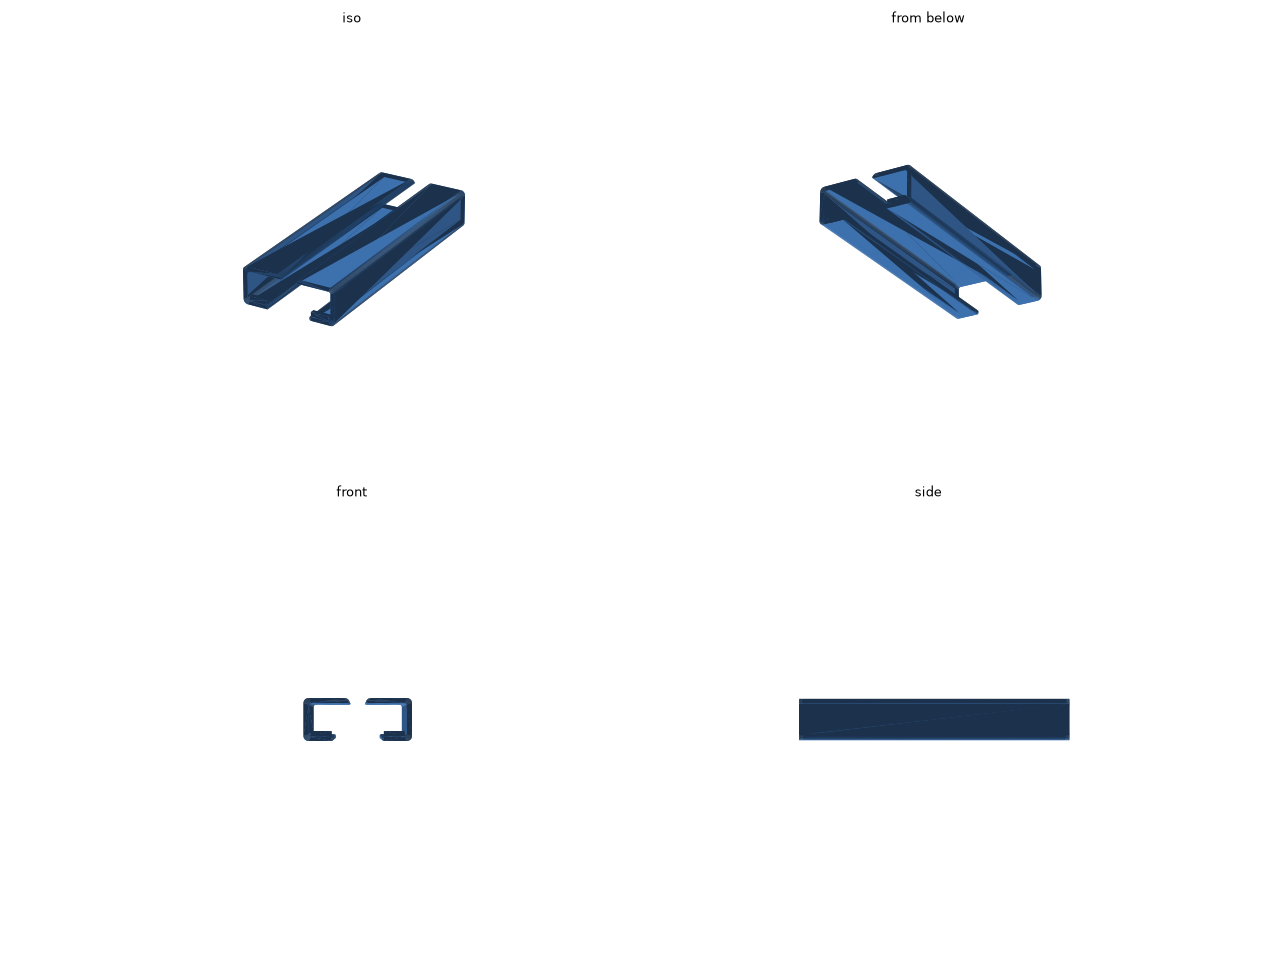
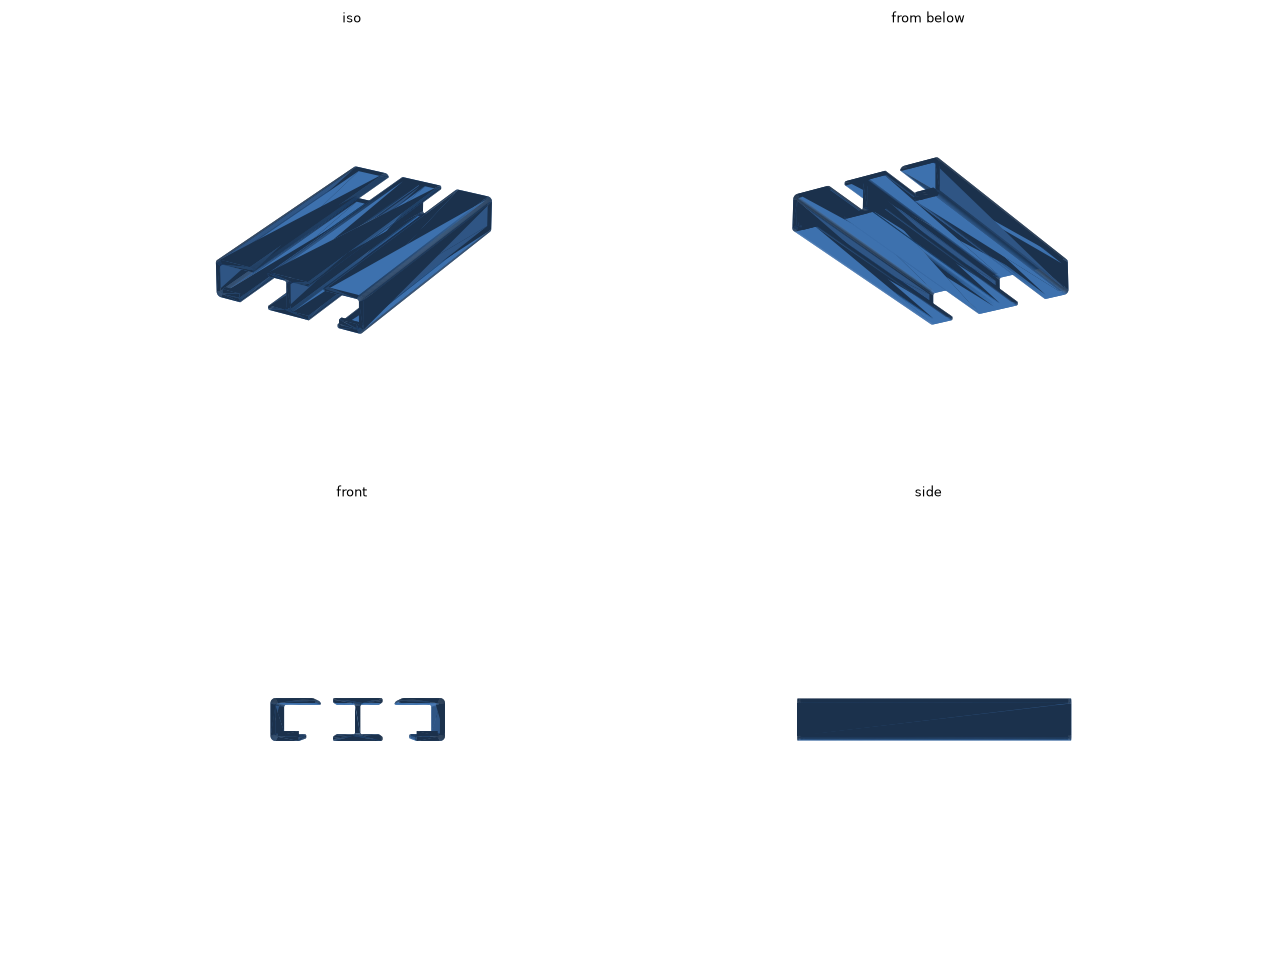
feat: iPad のレールに真ん中の支えを追加する
左右のレールだけだと iPad の真ん中が浮くので、断面が I の字の支えを
足した。下の板の上面は左右の棚と同じ高さにそろえてある。

diff --git a/ipad-pro-11-rails/rails.py b/ipad-pro-11-rails/rails.py
@@ -1,11 +1,12 @@
 """iPad Pro 11 インチ (M4) を机の下にしまうレール (Bambu Lab A1 mini 向け)
 
 iPad の幅 (249.7 mm) は A1 mini の造形範囲 (180 mm) に収まらないので、左右 2 本のレールに分けている。
-レールは前後方向に伸び、iPad の左右のふちを下の棚で受ける。上の板を両面テープで天板の裏に貼る。
+レールは前後方向に伸び、iPad の左右のふちを下の棚で受ける。真ん中は、断面が I の字の支えで受ける。
+どれも上の板を両面テープで天板の裏に貼る。
 iPad は前から差し込み、奥の抜け止めで止まる。手前は少しはみ出して、つかんで引き出せる。
 
 使用時の座標: X=左右, Y=前後 (Y=0 が手前), Z=上 (天板の裏が Z 最大)
-STL は 2 本を並べ、断面を下にした向きで書き出してあり、サポートなしで印刷できる。
+STL は 3 本を並べ、断面を下にした向きで書き出してあり、サポートなしで印刷できる。
 
 使い方: python rails.py -o stl/rails.stl
 """
@@ -33,7 +34,9 @@ STOP_H = 3.0    # 奥の抜け止めの高さ
 STOP_L = 3.0    # 抜け止めの奥行き (この手前に 45° の斜面を付ける)
 R_OUT = 3.0     # 外側の角の丸み
 R_IN = 1.5      # 内側の角の丸み
-GAP = 10.0      # 印刷するときの 2 本の間隔
+CENTER_W = 30.0 # 真ん中の支えの上下の板の幅
+CENTER_WEB = 3.0  # 真ん中の支えの縦の板の厚さ
+GAP = 10.0      # 印刷するときの部品どうしの間隔
 SEG = 48
 
 parser = argparse.ArgumentParser(description=__doc__, formatter_class=argparse.RawDescriptionHelpFormatter)
@@ -91,13 +94,21 @@ wedge = Manifold.hull_points([
 ])
 rail = rail + wedge
 
-# ---------- 書き出し: 左右 2 本を、手前の面 (Y=0) を下にして並べる ----------
-left = rail.rotate([-90, 0, 0])
-right = rail.mirror([1, 0, 0]).rotate([-90, 0, 0])
-bl, br = left.bounding_box(), right.bounding_box()
-left = left.translate([-bl[0], -bl[1], -bl[2]])
-right = right.translate([-br[0] + (bl[3] - bl[0]) + GAP, -br[1], -br[2]])
-printed = left + right
+# ---------- 真ん中の支え: 断面が I の字。下の板の上面を左右の棚の上面と同じ高さにそろえる ----------
+cw = CENTER_W / 2
+cprof = rect(-cw, 0, cw, SHELF_T) + rect(-cw, total_h - TAB_T, cw, total_h) + rect(-CENTER_WEB / 2, 0, CENTER_WEB / 2, total_h)
+cprof = round_convex(round_concave(cprof, R_IN), 1.0)
+center = Manifold.extrude(cprof, LENGTH).rotate([90, 0, 0]).translate([0, LENGTH, 0])
+
+# ---------- 書き出し: 3 本を、手前の面 (Y=0) を下にして並べる ----------
+printed = None
+x = 0.0
+for part in (rail, center, rail.mirror([1, 0, 0])):
+    p = part.rotate([-90, 0, 0])
+    b = p.bounding_box()
+    p = p.translate([x - b[0], -b[1], -b[2]])
+    x += b[3] - b[0] + GAP
+    printed = p if printed is None else printed + p
 
 write_stl(printed, args.output)
 bb = printed.bounding_box()

diff --git a/ipad-pro-11-rails/README.md b/ipad-pro-11-rails/README.md
@@ -2,26 +2,27 @@
 
 iPad Pro 11 インチ (M4) を、机の天板の裏に寝かせてしまうためのレールです。
 
-iPad の幅は 249.7 mm あり、A1 mini の造形範囲 (180 mm) に収まらないので、左右 2 本のレールに分けています。レールは前後方向に伸び、iPad の左右のふちを下の棚 (幅 15 mm) で受けます。iPad は前から差し込むと奥の抜け止めで止まり、長さ 170 mm のレールから手前が約 7 mm はみ出すので、そこをつかんで引き出せます。
+iPad の幅は 249.7 mm あり、A1 mini の造形範囲 (180 mm) に収まらないので、左右 2 本のレールに分けています。レールは前後方向に伸び、iPad の左右のふちを下の棚 (幅 15 mm) で、真ん中を断面が I の字の支え (幅 30 mm) で受けます。iPad は前から差し込むと奥の抜け止めで止まり、長さ 170 mm のレールから手前が約 7 mm はみ出すので、そこをつかんで引き出せます。
 
 ![preview](images/preview.png)
 
-STL: [stl/rails.stl](stl/rails.stl) (2 本で約 66 cm³)
+STL: [stl/rails.stl](stl/rails.stl) (左右のレールと真ん中の支えの 3 本で約 107 cm³)
 
 ## 寸法
 
 - 左右のレールの壁の内側どうしの間隔: 251.7 mm (iPad の幅 + 2 mm)
 - 棚の上面から上の板の下面までの高さ: 20 mm (ケースを付けても入ります)
-- 1 本の外形: 28 × 170 × 26 mm
+- 左右のレール 1 本の外形: 28 × 170 × 26 mm
+- 真ん中の支えの外形: 30 × 170 × 26 mm
 
 ## 印刷
 
-- STL は 2 本を並べ、手前の端の面を下にした向きで書き出してあります。そのまま置けば、サポートなしで印刷できます。
+- STL は 3 本を並べ、手前の端の面を下にした向きで書き出してあります。そのまま置けば、サポートなしで印刷できます。
 - 素材は PLA でも PETG でもかまいません。
 
 ## 天板への貼り方
 
-上の板 (幅 25 mm) に両面テープを貼って、天板の裏に貼ります。左右の間隔をそろえるには、先に 2 本のレールに iPad を差し込み、iPad ごと持ち上げて貼る方法が簡単です。
+どの部品も上の板に両面テープを貼って天板の裏に貼ります。左右の間隔をそろえるには、先に左右のレールと真ん中の支えに iPad を載せ、iPad ごと持ち上げて貼る方法が簡単です。真ん中の支えは左右のレールの間のどこに貼ってもかまいません。
 
 ## 寸法の調整
 
@@ -35,3 +36,4 @@ STL: [stl/rails.stl](stl/rails.stl) (2 本で約 66 cm³)
 | `LENGTH` | レールの長さ (A1 mini では 180 mm まで) |
 | `SHELF_W` / `TAB_W` | 下の棚と上の板の張り出し |
 | `STOP_H` | 奥の抜け止めの高さ |
+| `CENTER_W` | 真ん中の支えの上下の板の幅 |
